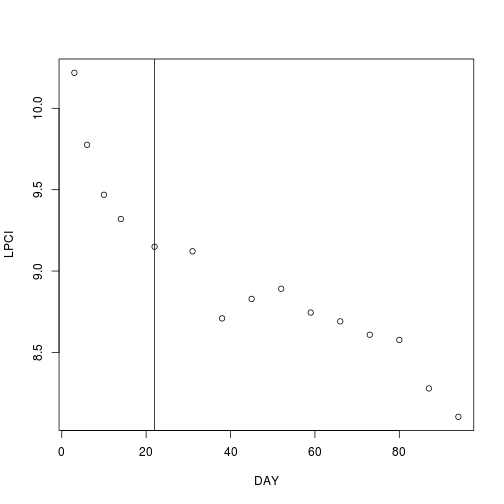
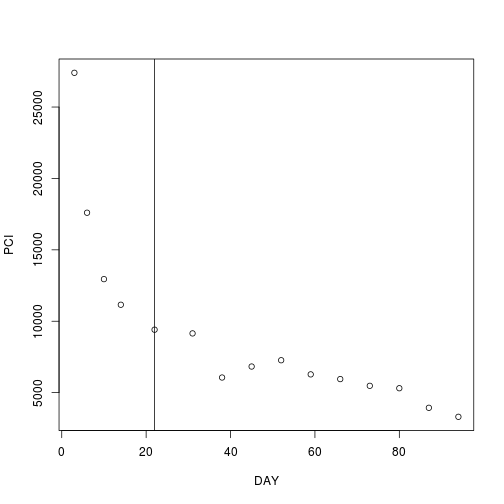
nearly finished p89

diff --git a/quantitative_ecotoxicology/rmd/p89.md b/quantitative_ecotoxicology/rmd/p89.md
@@ -17,51 +17,86 @@ MERCURY <- read.table("p89_MERCURY.csv", header = TRUE, sep = ";")
 
 
 ```r
-MERCURY$LPCI <- log(MERCURY$PCI)
 head(MERCURY)
 ```
 
 ```
-##   DAY   PCI    LPCI
-## 1   3 27400 10.2183
-## 2   6 17601  9.7757
-## 3  10 12950  9.4689
-## 4  14 11157  9.3198
-## 5  22  9410  9.1495
-## 6  31  9150  9.1215
+##   DAY   PCI
+## 1   3 27400
+## 2   6 17601
+## 3  10 12950
+## 4  14 11157
+## 5  22  9410
+## 6  31  9150
 ```
 
 
 ```r
-plot(LPCI ~ DAY, data = MERCURY)
+plot(PCI ~ DAY, data = MERCURY)
 abline(v = 22)
 ```
 
 ![plot of chunk p89_raw](figure/p89_raw.png) 
 
 
-We can identify two compartments on this plot: A slow one after day 22 and a fast one befor day 22.
+We can identify two compartments on this plot: A slow one after day 22 and a fast one before day 22.
+
+First we estimate ![alt text](http://chart.apis.google.com/chart?cht=tx&chl=C_B) and ![alt text](http://chart.apis.google.com/chart?cht=tx&chl=k_B) for the slow compartment, using linear regression of ln-transformed activity against day and predict from this slow compartment the activity over the whole period:
 
 
 ```r
+# ln-transformation
+MERCURY$LPCI <- log(MERCURY$PCI)
+# fit linear model for day 31 to 94
 mod_slow <- lm(LPCI ~ DAY, data = MERCURY[MERCURY$DAY > 22, ])
 sum_mod_slow <- summary(mod_slow)
-# correction
+sum_mod_slow
+```
+
+```
+## 
+## Call:
+## lm(formula = LPCI ~ DAY, data = MERCURY[MERCURY$DAY > 22, ])
+## 
+## Residuals:
+##     Min      1Q  Median      3Q     Max 
+## -0.2502 -0.0657  0.0605  0.0822  0.1386 
+## 
+## Coefficients:
+##             Estimate Std. Error t value Pr(>|t|)    
+## (Intercept)  9.43096    0.13987   67.42  2.6e-12 ***
+## DAY         -0.01240    0.00213   -5.82   0.0004 ***
+## ---
+## Signif. codes:  0 '***' 0.001 '**' 0.01 '*' 0.05 '.' 0.1 ' ' 1 
+## 
+## Residual standard error: 0.135 on 8 degrees of freedom
+## Multiple R-squared: 0.809,	Adjusted R-squared: 0.785 
+## F-statistic: 33.9 on 1 and 8 DF,  p-value: 0.000395
+```
+
+So this gives us the model ![alt text](http://chart.apis.google.com/chart?cht=tx&chl=C = 12468 e^{-0.0124 * Day}) for the slow component.
+
+We do a bias correction and predict the activity for the whole data-range:
+
+```r
+# bias-correction
 corr_mod_slow <- exp(sum_mod_slow$sigma^2/2)
+# add bias corrected predicts to data.frame predict takes the whole
+# data.frame es newdata, so we get predicts for every day.
 MERCURY$PRED <- exp(predict(mod_slow, newdata = MERCURY)) * corr_mod_slow
+# save C_B and k_B as objects (used later...)
 CB <- exp(coef(mod_slow)[1]) * corr_mod_slow
 KCB <- abs(coef(mod_slow)[2])
 ```
 
- 
+
+ The residuals from these predictions for day 3 to 22 are associated with the fast compartment.
+And we fit a linear regression to the ln-transformed residuals for the fast compartment:
 
 ```r
+# extract residuals
 MERCURY$ERROR <- MERCURY$PCI - MERCURY$PRED
-```
-
-
-
-```r
+# fit linear model to ln(residuals) for Day 3 to 22
 mod_fast <- lm(log(ERROR) ~ DAY, data = MERCURY[MERCURY$DAY <= 22, ])
 ```
 
@@ -69,14 +104,54 @@ mod_fast <- lm(log(ERROR) ~ DAY, data = MERCURY[MERCURY$DAY <= 22, ])
 ## Warning: NaNs produced
 ```
 
+Don't worry about the warning, it's because of a negative values in the residuals.
+Since the ln of a negative value is not defined, R gives us NaN ('Not a Number'). 
+By default NA and NaN-values are omitted in the lm-function.
+
+
 ```r
-# na.omit for negative value
 sum_mod_fast <- summary(mod_fast)
+sum_mod_fast
+```
+
+```
+## 
+## Call:
+## lm(formula = log(ERROR) ~ DAY, data = MERCURY[MERCURY$DAY <= 
+##     22, ])
+## 
+## Residuals:
+##       1       2       3       4 
+##  0.0278 -0.0304 -0.0157  0.0183 
+## 
+## Coefficients:
+##             Estimate Std. Error t value Pr(>|t|)    
+## (Intercept) 10.49602    0.03755   279.5 0.000013 ***
+## DAY         -0.29659    0.00407   -72.9  0.00019 ***
+## ---
+## Signif. codes:  0 '***' 0.001 '**' 0.01 '*' 0.05 '.' 0.1 ' ' 1 
+## 
+## Residual standard error: 0.0337 on 2 degrees of freedom
+##   (1 observation deleted due to missingness)
+## Multiple R-squared:    1,	Adjusted R-squared: 0.999 
+## F-statistic: 5.32e+03 on 1 and 2 DF,  p-value: 0.000188
+```
+
+
+So the model for the fast component is: ![alt text](http://chart.apis.google.com/chart?cht=tx&chl=C = 36171 e^{-0.297 * Day})
+
+
+```r
+# bias correction
 corr_mod_fast <- exp(sum_mod_fast$sigma^2/2)
+# save C_A and k_A as objects
 CA <- exp(coef(mod_fast)[1]) * corr_mod_fast
 KCA <- abs(coef(mod_fast)[2])
 ```
 
+
+
+Now we have two models: one for the fast component and one for the slow component, and we can make a plot similar to Figure 8.1 in Newman and Clements (2008, pp. 119–120). 
 
 
 ```r
@@ -89,7 +164,21 @@ legend("topright", c("slow", "backstripped-fast"), lty = c("solid", "dashed"),
 
 ![plot of chunk p89_backstripped](figure/p89_backstripped.png) 
 
+```r
+# Estimates
+c(CA, KCA, CB, KCB)
+```
 
+```
+## (Intercept)         DAY (Intercept)         DAY 
+##  3.6192e+04  2.9659e-01  1.2583e+04  1.2403e-02
+```
+
+
+We can use this estimates as start-values nto fit a non-linear Model to the data (there we stored the above into objects).
+
+We want to fit the following model:
+![alt text](http://chart.apis.google.com/chart?cht=tx&chl=C=C_A * e^{-k_A*Day}%2BC_B e^{-k_B*Day})
 
 
 ```r
@@ -99,18 +188,8 @@ nls_mod1 <- nls(PCI ~ CA * exp(-KCA * DAY) + CB * exp(-KCB * DAY),
                 start = list(KCB = KCB, KCA = KCA, CB = CB, CA = CA),
                 lower = c(0, 0, 5000, 20000), 
                 upper = c(1, 1, 20000, 45000))
-
-plot(PCI ~ DAY, data = MERCURY)
-# smooth line
-pred_nls_mod1 <- predict(nls_mod1, newdata = data.frame(DAY = seq(0,100, 1)))
-lines(seq(0,100, 1), pred_nls_mod1)
-```
-
-![plot of chunk p89_nls](figure/p89_nls.png) 
-
-```r
-
-summary(nls_mod1)
+sum_nls_mod1 <- summary(nls_mod1)
+sum_nls_mod1
 ```
 
 ```
@@ -131,9 +210,57 @@ summary(nls_mod1)
 ## Algorithm "port", convergence message: relative convergence (4)
 ```
 
+* ![alt text](http://chart.apis.google.com/chart?cht=tx&chl=C_A) is estimated as `37909` ![alt text](http://chart.apis.google.com/chart?cht=tx&chl=\\pm) `4824`
+* ![alt text](http://chart.apis.google.com/chart?cht=tx&chl=C_B) is estimated as `12245` ![alt text](http://chart.apis.google.com/chart?cht=tx&chl=\\pm) `858`
+* ![alt text](http://chart.apis.google.com/chart?cht=tx&chl=k_A) is estimated as `0.297` ![alt text](http://chart.apis.google.com/chart?cht=tx&chl=\\pm) `0.045`
+* ![alt text](http://chart.apis.google.com/chart?cht=tx&chl=k_A) is estimated as `0.012` ![alt text](http://chart.apis.google.com/chart?cht=tx&chl=\\pm) `0.001`
+
+
+And finally we plot data and model.
+
+```r
+plot(PCI ~ DAY, data = MERCURY, type = "n")
+points(MERCURY$DAY, MERCURY$PCI, pch = ifelse(MERCURY$DAY <= 22, 16, 17))
+# smooth line
+pred_nls_mod1 <- predict(nls_mod1, newdata = data.frame(DAY = seq(0, 100, 1)))
+lines(seq(0, 100, 1), pred_nls_mod1)
+legend("topright", c("Fast", "slow"), pch = c(16, 17))
+```
+
+![plot of chunk p89_nls](figure/p89_nls.png) 
 
 
 
+Again we get nearly the same results with R, except for the fast-component:
+
+This is probably due to the bias-correction in slow-component-model.
+
+We have a MSE of
+
+```r
+sum_mod_slow$sigma^2
+```
+
+```
+## [1] 0.018349
+```
+
+which is identical to the book. From the previous example, the bias can be estimated as
+![alt text](http://chart.apis.google.com/chart?cht=tx&chl=e^{MSE/2}):
+
+```r
+exp(sum_mod_slow$sigma^2/2)
+```
+
+```
+## [1] 1.0092
+```
+
+which is different to the book (1.002).
+
+**Refs**
+
+> Newman, Michael C., and William Henry Clements. Ecotoxicology: A Comprehensive Treatment. Boca Raton: Taylor /& Francis, 2008. 
 
 
 Code and data are available at my [github-repo](https://github.com/EDiLD/r-ed/tree/master/quantitative_ecotoxicology) under file name 'p89'.
